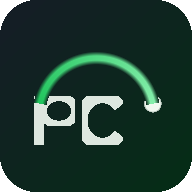
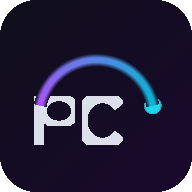
refator: change style

diff --git a/style.css b/style.css
@@ -1,17 +1,30 @@
 /* PhysioControl - dark professional, green accent */
 :root{
-  --bg:#1a1d23;--surface:#23272f;--surface-2:#2c3140;
-  --primary:#22c55e;--primary-dark:#16a34a;--primary-light:#4ade80;--primary-dim:#052e16;
-  --accent:#38bdf8;--accent-light:#0c4a6e;
-  --danger:#f87171;--danger-light:#2d1515;
-  --success:#4ade80;--success-light:#052e16;
-  --text:#f1f5f9;--text-muted:#94a3b8;--border:#334155;--border-light:#1e293b;
-  --radius:16px;--shadow:0 4px 24px rgba(0,0,0,.4);--shadow-lg:0 12px 48px rgba(0,0,0,.6);
+  --bg:#0f0f1a;
+  --surface:#16162a;
+  --surface-2:#1e1e3a;
+  --primary:#06b6d4;
+  --primary-dark:#0891b2;
+  --primary-light:#22d3ee;
+  --primary-dim:#0a2a33;
+  --accent:#a855f7;
+  --accent-light:#2d1a4a;
+  --danger:#f87171;
+  --danger-light:#2d1515;
+  --success:#34d399;
+  --success-light:#052e1a;
+  --text:#f0f4f8;
+  --text-muted:#94a3b8;
+  --border:#2d2d5e;
+  --border-light:#1a1a3a;
+  --radius:16px;
+  --shadow:0 4px 24px rgba(0,0,0,.5);
+  --shadow-lg:0 12px 48px rgba(0,0,0,.7);
 }
 *{box-sizing:border-box;margin:0;padding:0}
 body{font-family:Rubik,sans-serif;background:var(--bg);color:var(--text);min-height:100vh;direction:rtl}
 .hidden{display:none!important}
-#auth-screen{min-height:100vh;display:flex;flex-direction:column;align-items:center;justify-content:center;padding:24px;background:linear-gradient(160deg,#0f1419 0%,#1a2535 60%,#0d1f12 100%)}
+#auth-screen{min-height:100vh;display:flex;flex-direction:column;align-items:center;justify-content:center;padding:24px;background:linear-gradient(160deg,#060612 0%,#0f0a1e 50%,#060f1a 100%)}
 .auth-logo{font-family:"DM Serif Display",serif;font-size:36px;color:var(--primary);margin-bottom:4px;letter-spacing:-1px}
 .auth-sub{color:var(--text-muted);font-size:14px;margin-bottom:32px}
 .auth-card{background:var(--surface);border-radius:20px;padding:28px;width:100%;max-width:360px;box-shadow:var(--shadow-lg);border:1px solid var(--border)}
@@ -44,13 +57,13 @@ nav{position:fixed;bottom:0;left:50%;transform:translateX(-50%);width:100%;max-w
 .card-title{font-size:12px;font-weight:700;color:var(--text-muted);text-transform:uppercase;letter-spacing:.6px;margin-bottom:12px}
 .page-title{font-family:"DM Serif Display",serif;font-size:26px;color:var(--primary);margin-bottom:4px}
 .page-subtitle{font-size:13px;color:var(--text-muted);margin-bottom:16px}
-.points-hero{background:linear-gradient(135deg,#0d2818 0%,#14532d 60%,#052e16 100%);border-radius:20px;padding:24px;color:#fff;margin-bottom:16px;border:1px solid #166534}
+.points-hero{background:linear-gradient(135deg,#060a2a 0%,#0c1a3a 50%,#0a0f2e 100%);border-radius:20px;padding:24px;color:#fff;margin-bottom:16px;border:1px solid #1a1a6a}
 .month-label{font-size:12px;opacity:.6;text-transform:uppercase;letter-spacing:.8px;margin-bottom:8px}
 .points-main{display:flex;align-items:baseline;gap:8px;margin-bottom:12px}
 .points-number{font-family:"DM Serif Display",serif;font-size:52px;line-height:1;color:var(--primary-light)}
 .points-target{font-size:16px;opacity:.6}
 .progress-bar-wrap{background:rgba(255,255,255,.1);border-radius:8px;height:8px;overflow:hidden;margin-bottom:8px}
-.progress-bar-fill{height:100%;background:var(--primary);border-radius:8px;transition:width .6s ease;box-shadow:0 0 8px rgba(34,197,94,.5)}
+.progress-bar-fill{height:100%;background:var(--primary);border-radius:8px;transition:width .6s ease;box-shadow:0 0 10px rgba(6,182,212,.6)}
 .progress-label{font-size:12px;opacity:.6}
 .stats-grid{display:grid;grid-template-columns:1fr 1fr;gap:10px;margin-bottom:16px}
 .stat-card{background:var(--surface);border-radius:14px;padding:14px;text-align:center;box-shadow:var(--shadow);border:1px solid var(--border)}
@@ -102,7 +115,7 @@ nav{position:fixed;bottom:0;left:50%;transform:translateX(-50%);width:100%;max-w
 #modal-overlay.hidden{display:none}
 #modal-body{background:var(--surface);border-radius:20px 20px 0 0;padding:24px;width:100%;max-width:430px;max-height:85vh;overflow-y:auto;border-top:1px solid var(--border)}
 .modal-title{font-family:"DM Serif Display",serif;font-size:22px;color:var(--primary);margin-bottom:16px}
-#toast{position:fixed;bottom:90px;left:50%;transform:translateX(-50%);background:var(--surface);color:var(--text);padding:10px 20px;border-radius:20px;font-size:14px;opacity:0;transition:opacity .3s;z-index:2000;pointer-events:none;white-space:nowrap;border:1px solid var(--primary);box-shadow:0 0 16px rgba(34,197,94,.2)}
+#toast{position:fixed;bottom:90px;left:50%;transform:translateX(-50%);background:var(--surface);color:var(--text);padding:10px 20px;border-radius:20px;font-size:14px;opacity:0;transition:opacity .3s;z-index:2000;pointer-events:none;white-space:nowrap;border:1px solid var(--primary);box-shadow:0 0 16px rgba(6,182,212,.25)}
 #toast.show{opacity:1}
 .timed-group{background:var(--surface-2);border-radius:12px;padding:14px;margin-top:8px;border:1px solid var(--border)}
 .text-muted{color:var(--text-muted);font-size:13px}

diff --git a/index.html b/index.html
@@ -6,7 +6,7 @@
       name="viewport"
       content="width=device-width, initial-scale=1.0, maximum-scale=1.0, user-scalable=no"
     />
-    <meta name="theme-color" content="#1a1d23" />
+    <meta name="theme-color" content="#0f0f1a" />
     <meta
       name="description"
       content="מערכת ניהול ומעקב תפוקות לפיזיותרפיסטים"
